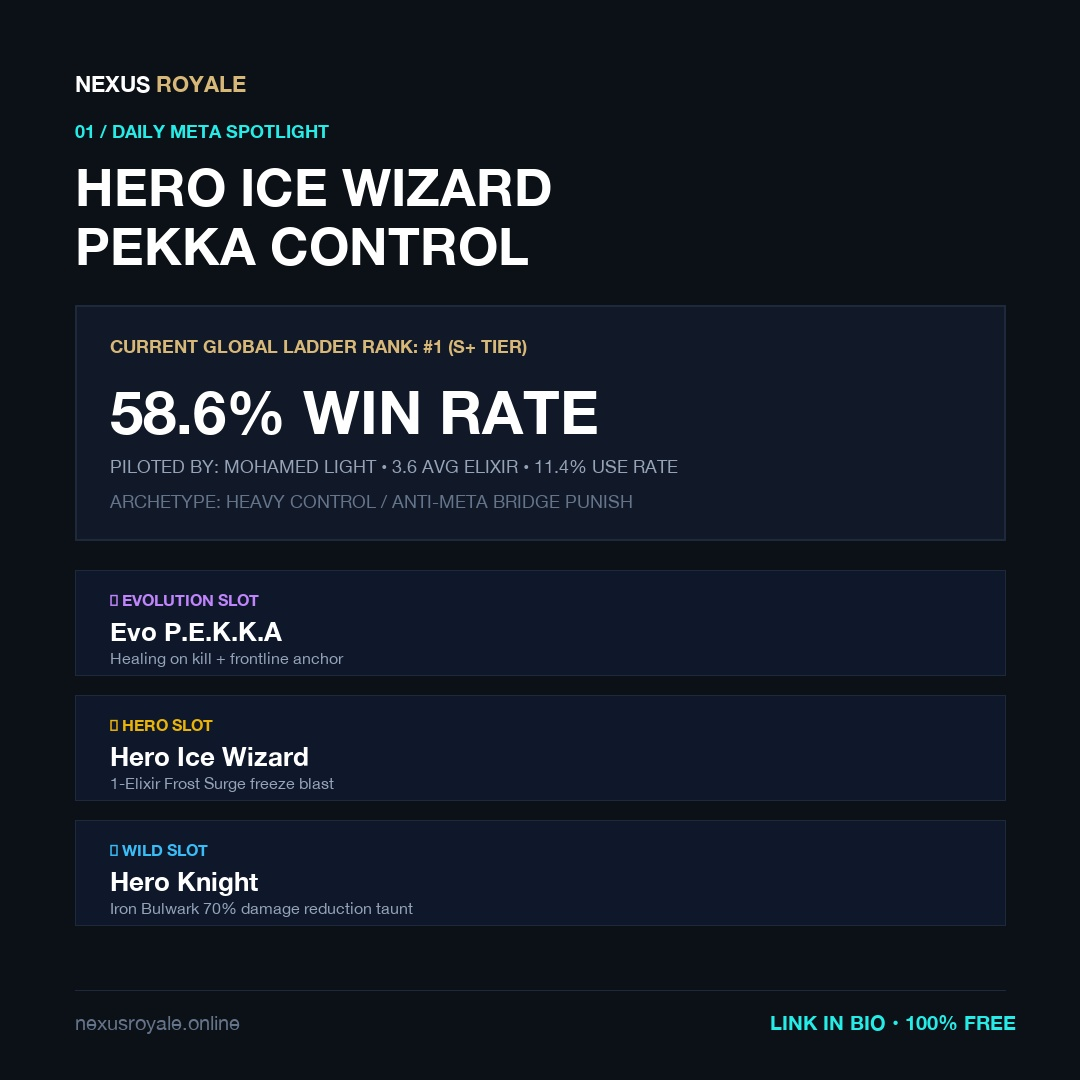
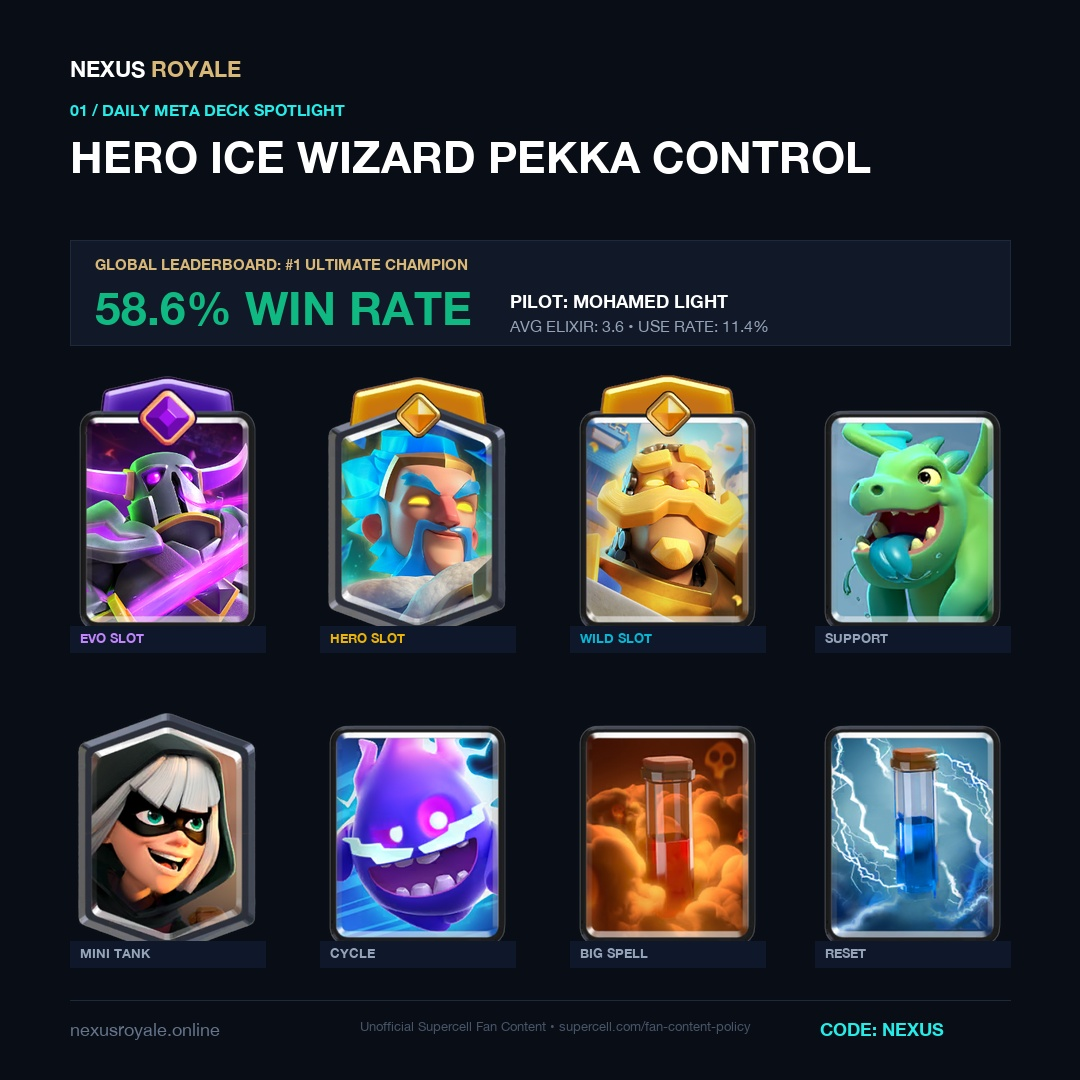
Upgrade social content engine with authentic Clash Royale card portraits and RoyaleAPI design standard

diff --git a/scripts/content_engine.py b/scripts/content_engine.py
@@ -1,18 +1,14 @@
 #!/usr/bin/env python3
 """
 Nexus Royale — Automated Social Media Content Engine
-Generates daily minimalist social media posts from Nexus Royale's proprietary datasets:
-1. Daily Meta Deck Spotlight (WR, Archetype, Pro Pilot, In-game export link)
-2. Balance Shift Intelligence (Supercell emergency patches & nerfs/buffs)
-3. Counter This Card Tactical Guide (Positive elixir trades)
-4. 2v2 Competitive Radar (Top partner synergies)
+Generates daily minimalist, esports-grade social media posts featuring official Clash Royale
+card portraits, 2026 slot badges (Evo/Hero/Wild), and Supercell Fan Content policy compliance.
 
-Outputs 1080x1080 Swiss minimalist graphics and drafts captions for Socials/queue/
+Outputs 1080x1080 graphics and drafts captions for Socials/queue/
 """
 
 import json
 import os
-import re
 import sys
 from datetime import datetime, timezone
 from PIL import Image, ImageDraw, ImageFont
@@ -21,8 +17,10 @@ BASE_DIR = os.path.abspath(os.path.join(os.path.dirname(__file__), ".."))
 SOCIALS_DIR = os.path.abspath(os.path.join(BASE_DIR, "..", "Socials"))
 QUEUE_DIR = os.path.join(SOCIALS_DIR, "queue")
 QUEUE_FILE = os.path.join(SOCIALS_DIR, "content_queue.json")
+CARDS_DIR = os.path.join(SOCIALS_DIR, "assets", "cards")
 
 os.makedirs(QUEUE_DIR, exist_ok=True)
+os.makedirs(CARDS_DIR, exist_ok=True)
 
 FONT_PATH = "/System/Library/Fonts/HelveticaNeue.ttc"
 
@@ -33,64 +31,89 @@ def get_font(size, bold=False):
     except Exception:
         return ImageFont.load_default()
 
-def load_official_news():
-    news_file = os.path.join(BASE_DIR, "official_news.json")
-    if os.path.exists(news_file):
-        with open(news_file, "r") as f:
-            return json.load(f)
-    return {}
-
 def create_base_canvas():
-    return Image.new("RGB", (1080, 1080), color="#0c1017")
+    return Image.new("RGB", (1080, 1080), color="#090d16")
 
 def draw_standard_header(draw, category, headline):
     # Top Brand Mark
-    draw.text((75, 70), "NEXUS ", font=get_font(22, bold=True), fill="#ffffff")
-    bbox = draw.textbbox((75, 70), "NEXUS ", font=get_font(22, bold=True))
-    draw.text((bbox[2], 70), "ROYALE", font=get_font(22, bold=True), fill="#d8b878")
+    draw.text((70, 55), "NEXUS ", font=get_font(22, bold=True), fill="#ffffff")
+    bbox = draw.textbbox((70, 55), "NEXUS ", font=get_font(22, bold=True))
+    draw.text((bbox[2], 55), "ROYALE", font=get_font(22, bold=True), fill="#d8b878")
     
-    # Category Tag
-    draw.text((75, 120), category.upper(), font=get_font(18, bold=True), fill="#26ece8")
+    # Category Kicker
+    draw.text((70, 100), category.upper(), font=get_font(16, bold=True), fill="#26ece8")
     
     # Headline
-    draw.text((75, 155), headline.upper(), font=get_font(52, bold=True), fill="#ffffff", spacing=8)
+    draw.text((70, 130), headline.upper(), font=get_font(44, bold=True), fill="#ffffff", spacing=6)
 
 def draw_standard_footer(draw):
-    # Bottom Bar
-    draw.line([(75, 990), (1005, 990)], fill="#1e293b", width=1)
-    draw.text((75, 1010), "nexusroyale.online", font=get_font(20, bold=False), fill="#64748b")
-    draw.text((770, 1010), "LINK IN BIO • 100% FREE", font=get_font(20, bold=True), fill="#26ece8")
+    draw.line([(70, 1000), (1010, 1000)], fill="#1e293b", width=1)
+    draw.text((70, 1018), "nexusroyale.online", font=get_font(18, bold=False), fill="#64748b")
+    draw.text((360, 1018), "Unofficial Supercell Fan Content • supercell.com/fan-content-policy", font=get_font(13, bold=False), fill="#475569")
+    draw.text((820, 1018), "CODE: NEXUS", font=get_font(18, bold=True), fill="#26ece8")
+
+def paste_card(canvas, card_filename, pos, size=(175, 257)):
+    fp = os.path.join(CARDS_DIR, card_filename)
+    if os.path.exists(fp):
+        try:
+            c = Image.open(fp).convert("RGBA")
+            c = c.resize(size, Image.Resampling.LANCZOS)
+            canvas.paste(c, pos, c)
+            return True
+        except Exception as e:
+            print(f"Error pasting {card_filename}: {e}")
+    return False
 
 # -------------------------------------------------------------
-# 1. Meta Deck Spotlight Post
+# 1. Meta Deck Spotlight Post (8-Card Grid)
 # -------------------------------------------------------------
 def generate_meta_spotlight():
     img = create_base_canvas()
     draw = ImageDraw.Draw(img)
-    draw_standard_header(draw, "01 / DAILY META SPOTLIGHT", "HERO ICE WIZARD\nPEKKA CONTROL")
+    draw_standard_header(draw, "01 / DAILY META DECK SPOTLIGHT", "HERO ICE WIZARD PEKKA CONTROL")
 
-    # Main Card Container
-    draw.rectangle([75, 305, 1005, 540], fill="#111827", outline="#1e293b", width=2)
+    # Stat Banner
+    draw.rectangle([70, 240, 1010, 345], fill="#111827", outline="#1e293b", width=1)
+    draw.text((95, 255), "GLOBAL LEADERBOARD: #1 ULTIMATE CHAMPION", font=get_font(15, bold=True), fill="#d8b878")
     
-    draw.text((110, 335), "CURRENT GLOBAL LADDER RANK: #1 (S+ TIER)", font=get_font(18, bold=True), fill="#d8b878")
-    draw.text((110, 375), "58.6% WIN RATE", font=get_font(60, bold=True), fill="#ffffff")
-    draw.text((110, 455), "PILOTED BY: MOHAMED LIGHT • 3.6 AVG ELIXIR • 11.4% USE RATE", font=get_font(18, bold=False), fill="#94a3b8")
-    draw.text((110, 490), "ARCHETYPE: HEAVY CONTROL / ANTI-META BRIDGE PUNISH", font=get_font(18, bold=False), fill="#64748b")
+    draw.text((95, 280), "58.6% WIN RATE", font=get_font(46, bold=True), fill="#10b981")
+    draw.text((510, 290), "PILOT: MOHAMED LIGHT", font=get_font(18, bold=True), fill="#ffffff")
+    draw.text((510, 316), "AVG ELIXIR: 3.6 • USE RATE: 11.4%", font=get_font(16, bold=False), fill="#94a3b8")
 
-    # 3-Slot Breakdown
-    slots = [
-        ("🟣 EVOLUTION SLOT", "Evo P.E.K.K.A", "Healing on kill + frontline anchor", "#c084fc"),
-        ("🟡 HERO SLOT", "Hero Ice Wizard", "1-Elixir Frost Surge freeze blast", "#eab308"),
-        ("🔵 WILD SLOT", "Hero Knight", "Iron Bulwark 70% damage reduction taunt", "#38bdf8")
+    # 8-Card Grid
+    row1 = [
+        ("pekka_evo.png", "EVO SLOT", "#c084fc"),
+        ("ice-wizard_hero.png", "HERO SLOT", "#eab308"),
+        ("knight_hero.png", "WILD SLOT", "#06b6d4"),
+        ("baby-dragon.png", "SUPPORT", "#94a3b8")
     ]
     
-    y = 570
-    for tag, name, desc, col in slots:
-        draw.rectangle([75, y, 1005, y + 105], fill="#0f172a", outline="#1e293b", width=1)
-        draw.text((110, y + 20), tag, font=get_font(16, bold=True), fill=col)
-        draw.text((110, y + 45), name, font=get_font(26, bold=True), fill="#ffffff")
-        draw.text((110, y + 78), desc, font=get_font(16, bold=False), fill="#94a3b8")
-        y += 125
+    row2 = [
+        ("bandit.png", "MINI TANK", "#94a3b8"),
+        ("electro-spirit.png", "CYCLE", "#94a3b8"),
+        ("poison.png", "BIG SPELL", "#94a3b8"),
+        ("zap.png", "RESET", "#94a3b8")
+    ]
+
+    card_w, card_h = 195, 287
+    xs = [70, 320, 570, 815]
+    
+    # Row 1
+    y1 = 365
+    for i, (fn, tag, col) in enumerate(row1):
+        x = xs[i]
+        paste_card(img, fn, (x, y1), size=(card_w, card_h))
+        # Draw slot badge above card
+        draw.rectangle([x, y1 + card_h - 26, x + card_w, y1 + card_h], fill="#0f172a")
+        draw.text((x + 10, y1 + card_h - 22), tag, font=get_font(13, bold=True), fill=col)
+
+    # Row 2
+    y2 = 680
+    for i, (fn, tag, col) in enumerate(row2):
+        x = xs[i]
+        paste_card(img, fn, (x, y2), size=(card_w, card_h))
+        draw.rectangle([x, y2 + card_h - 26, x + card_w, y2 + card_h], fill="#0f172a")
+        draw.text((x + 10, y2 + card_h - 22), tag, font=get_font(13, bold=True), fill=col)
 
     draw_standard_footer(draw)
     
@@ -119,27 +142,37 @@ def generate_meta_spotlight():
     }
 
 # -------------------------------------------------------------
-# 2. Balance Shifts Post
+# 2. Balance Shifts Post (Real Card Portraits + Delta Badges)
 # -------------------------------------------------------------
 def generate_balance_shifts():
     img = create_base_canvas()
     draw = ImageDraw.Draw(img)
-    draw_standard_header(draw, "02 / LIVE BALANCE INTELLIGENCE", "EMERGENCY BALANCE\nSEPTEMBER 16TH")
+    draw_standard_header(draw, "02 / LIVE BALANCE INTELLIGENCE", "EMERGENCY BALANCE TELEMETRY")
 
     shifts = [
-        ("🔻 HERO ICE WIZARD", "NERF: Freeze Duration 7s ➔ 5s (-29%)", "Frost Surge no longer shuts down entire 7-elixir pushes single-handedly.", "#f43f5e"),
-        ("🔻 MINION GIANT", "NERF: Base Damage 189 ➔ 168 (-11%)", "Reduces tower DPS while keeping frontline tank integrity.", "#f43f5e"),
-        ("🔻 GOBLINSTEIN", "NERF: Ability Duration 4s ➔ 3.5s (-13%)", "Slightly tones down lightning tether lock time.", "#f43f5e"),
-        ("🔺 FIRE SPIRIT", "BUFF: Damage 207 ➔ 215 (+4%)", "Guarantees full wipe on evolved goblin swarms.", "#10b981")
+        ("ice-wizard_hero.png", "HERO ICE WIZARD", "NERF", "-29%", "Freeze Duration: 7.0s ➔ 5.0s", "Frost Surge no longer halts entire 7-elixir pushes single-handedly.", "#ef4444"),
+        ("giant.png", "MINION GIANT", "NERF", "-11%", "Tower DPS: 189 ➔ 168 damage", "Reduces tower melt speed while preserving frontline tank HP.", "#ef4444"),
+        ("goblinstein.png", "GOBLINSTEIN", "NERF", "-13%", "Tether Duration: 4.0s ➔ 3.5s", "Tones down lightning chain lock duration on defense.", "#ef4444"),
+        ("fire-spirit.png", "FIRE SPIRIT", "BUFF", "+4%", "Splash Damage: 207 ➔ 215", "Guarantees complete one-shot wipe on evolved goblin swarms.", "#10b981")
     ]
 
-    y = 310
-    for card, change, note, col in shifts:
-        draw.rectangle([75, y, 1005, y + 140], fill="#111827", outline="#1e293b", width=1)
-        draw.text((110, y + 22), card, font=get_font(24, bold=True), fill=col)
-        draw.text((110, y + 58), change, font=get_font(20, bold=True), fill="#ffffff")
-        draw.text((110, y + 95), note, font=get_font(17, bold=False), fill="#94a3b8")
-        y += 160
+    y = 250
+    cw, ch = 95, 140
+    for fn, name, btype, pct, stat, note, col in shifts:
+        draw.rectangle([70, y, 1010, y + 160], fill="#111827", outline="#1e293b", width=1)
+        paste_card(img, fn, (90, y + 10), size=(cw, ch))
+        
+        # Name and Delta Pill
+        draw.text((210, y + 20), name, font=get_font(22, bold=True), fill="#ffffff")
+        pill_text = f"{btype}: {pct}"
+        pbbox = draw.textbbox((760, y + 20), pill_text, font=get_font(16, bold=True))
+        draw.rectangle([pbbox[0]-12, y+16, pbbox[2]+12, y+44], fill=col)
+        draw.text((760, y + 20), pill_text, font=get_font(16, bold=True), fill="#ffffff")
+        
+        # Stat breakdown & note
+        draw.text((210, y + 62), stat, font=get_font(18, bold=True), fill="#e2e8f0")
+        draw.text((210, y + 100), note, font=get_font(15, bold=False), fill="#94a3b8")
+        y += 182
 
     draw_standard_footer(draw)
     
@@ -167,26 +200,46 @@ def generate_balance_shifts():
     }
 
 # -------------------------------------------------------------
-# 3. Counter This Card Post
+# 3. Counter This Card Post (Target vs Counters)
 # -------------------------------------------------------------
 def generate_counter_guide():
     img = create_base_canvas()
     draw = ImageDraw.Draw(img)
-    draw_standard_header(draw, "03 / TACTICAL COUNTER-PLAY", "HOW TO COUNTER\nHERO ICE WIZARD")
+    draw_standard_header(draw, "03 / TACTICAL COUNTER-PLAY", "HOW TO COUNTER HERO ICE WIZARD")
 
+    # Left Box: Target Threat
+    draw.rectangle([70, 240, 380, 970], fill="#111827", outline="#1e293b", width=1)
+    draw.rectangle([70, 240, 380, 280], fill="#ef4444")
+    draw.text((105, 252), "TARGET THREAT: S-TIER", font=get_font(15, bold=True), fill="#ffffff")
+    
+    paste_card(img, "ice-wizard_hero.png", (105, 305), size=(240, 353))
+    
+    draw.text((95, 680), "HERO ICE WIZARD", font=get_font(22, bold=True), fill="#ffffff")
+    draw.text((95, 715), "Cost: 3⚡ + 1⚡ Ability", font=get_font(16, bold=False), fill="#d8b878")
+    draw.text((95, 750), "Frost Surge 5s freeze stops\nall incoming tank momentum.\nRequires precise positive\nelixir trades.", font=get_font(15, bold=False), fill="#94a3b8", spacing=6)
+
+    # Right Box: 3 Verified Counters
     counters = [
-        ("01", "POISON SPELL (+0 TRADE)", "Drop Poison as soon as Hero Ice Wizard locks. The continuous DPS denies both his standard attack and limits Frost Surge value."),
-        ("02", "SURROUND PLACEMENT (+1 TO +2 TRADE)", "Never group troops in a single lane. Deploy Guards or Goblin Gang in a split surround to force Frost Surge on single targets."),
-        ("03", "BOSS BANDIT DASH (+0 TRADE)", "Boss Bandit's invulnerable dash frames completely ignore the Frost Surge freeze zone and assassinate him cleanly.")
+        ("poison.png", "POISON SPELL", "+0 ELIXIR TRADE", "Drop Poison instantly on deployment. Consistent area DPS denies Frost Surge value and clips support units.", "#06b6d4"),
+        ("guards.png", "SPLIT GUARDS", "+1 ELIXIR TRADE", "Deploy Guards centered split-lane. Shields absorb freeze blast; dual lanes avoid cluster wipe.", "#10b981"),
+        ("bandit.png", "BOSS BANDIT DASH", "+0 ELIXIR TRADE", "Bandit's invulnerable dash frames ignore the Frost Surge freeze zone entirely and assassinate him.", "#06b6d4")
     ]
 
-    y = 310
-    for num, title, desc in counters:
-        draw.rectangle([75, y, 1005, y + 195], fill="#111827", outline="#1e293b", width=1)
-        draw.text((110, y + 25), f"{num} / {title}", font=get_font(22, bold=True), fill="#26ece8")
-        # Word wrap desc
-        draw.text((110, y + 70), desc, font=get_font(18, bold=False), fill="#cbd5e1", spacing=8)
-        y += 220
+    y = 240
+    for fn, name, trade, desc, col in counters:
+        draw.rectangle([410, y, 1010, y + 230], fill="#111827", outline="#1e293b", width=1)
+        paste_card(img, fn, (430, y + 20), size=(130, 191))
+        
+        draw.text((580, y + 25), name, font=get_font(22, bold=True), fill="#ffffff")
+        
+        # Trade Pill
+        tbbox = draw.textbbox((580, y + 62), trade, font=get_font(15, bold=True))
+        draw.rectangle([tbbox[0]-8, y+58, tbbox[2]+8, y+86], fill=col)
+        draw.text((580, y + 62), trade, font=get_font(15, bold=True), fill="#0f172a" if col == "#10b981" else "#ffffff")
+        
+        # Desc
+        draw.text((580, y + 105), desc, font=get_font(15, bold=False), fill="#94a3b8", spacing=6)
+        y += 250
 
     draw_standard_footer(draw)
     
@@ -213,30 +266,36 @@ def generate_counter_guide():
     }
 
 # -------------------------------------------------------------
-# 4. 2v2 Competitive Radar Post
+# 4. 2v2 Competitive Radar (Duo Decks & Synergies)
 # -------------------------------------------------------------
 def generate_2v2_radar():
     img = create_base_canvas()
     draw = ImageDraw.Draw(img)
-    draw_standard_header(draw, "04 / 2V2 LEAGUE RADAR", "TOP 10K SYNERGY\nDUAL DECK COMBO")
+    draw_standard_header(draw, "04 / 2V2 COMPETITIVE LEAGUE", "TOP 10K SYNERGY: PEKKA + GRAVEYARD")
 
-    draw.rectangle([75, 305, 1005, 520], fill="#111827", outline="#1e293b", width=2)
-    draw.text((110, 335), "GLOBAL 2V2 COMPETITIVE LEAGUE (SEASON 87)", font=get_font(18, bold=True), fill="#d8b878")
-    draw.text((110, 375), "PEKKA + GRAVEYARD POISON", font=get_font(42, bold=True), fill="#ffffff")
-    draw.text((110, 440), "62.4% DUO WIN RATE • PILOTED IN TOP 500 GLOBAL 2V2", font=get_font(18, bold=False), fill="#26ece8")
-    draw.text((110, 475), "Combined Avg Elixir: 3.55⚡ • Anti-Swarm & Ground Tank Anchor", font=get_font(18, bold=False), fill="#94a3b8")
+    draw.rectangle([70, 240, 1010, 340], fill="#111827", outline="#1e293b", width=1)
+    draw.text((95, 255), "GLOBAL 2V2 LEAGUE • TOP 500 SYNERGY SCORE", font=get_font(15, bold=True), fill="#d8b878")
+    draw.text((95, 280), "62.4% DUO WIN RATE", font=get_font(44, bold=True), fill="#10b981")
+    draw.text((580, 290), "DUO COMBO: TANK ANCHOR + SPELL PRESSURE", font=get_font(16, bold=False), fill="#94a3b8")
 
-    decks = [
-        ("PLAYER 1 / TANK & EVOLUTION ANCHOR", "Evo PEKKA, Hero Knight, Zap, Executioner, Minion Horde, Freeze, Guards, Hog Rider"),
-        ("PLAYER 2 / SPELL PRESSURE & CONTROL", "Graveyard, Poison, Baby Dragon, Tornado, Ice Wizard, Tombstone, Barbarian Barrel, Mega Minion")
-    ]
+    # Player 1 Deck Panel
+    draw.rectangle([70, 360, 1010, 640], fill="#0f172a", outline="#1e293b", width=1)
+    draw.text((95, 380), "PLAYER 1 / TANK & EVOLUTION ANCHOR", font=get_font(18, bold=True), fill="#c084fc")
+    draw.text((750, 380), "AVG ELIXIR: 3.8", font=get_font(16, bold=False), fill="#94a3b8")
     
-    y = 550
-    for role, cards in decks:
-        draw.rectangle([75, y, 1005, y + 175], fill="#0f172a", outline="#1e293b", width=1)
-        draw.text((110, y + 25), role, font=get_font(18, bold=True), fill="#d8b878")
-        draw.text((110, y + 65), cards, font=get_font(18, bold=False), fill="#cbd5e1", spacing=6)
-        y += 205
+    p1_cards = ["pekka_evo.png", "executioner.png", "knight_hero.png", "zap.png"]
+    p1_xs = [95, 325, 555, 785]
+    for i, fn in enumerate(p1_cards):
+        paste_card(img, fn, (p1_xs[i], 420), size=(135, 198))
+
+    # Player 2 Deck Panel
+    draw.rectangle([70, 660, 1010, 940], fill="#0f172a", outline="#1e293b", width=1)
+    draw.text((95, 680), "PLAYER 2 / SPELL PRESSURE & CONTROL", font=get_font(18, bold=True), fill="#26ece8")
+    draw.text((750, 680), "AVG ELIXIR: 3.3", font=get_font(16, bold=False), fill="#94a3b8")
+    
+    p2_cards = ["graveyard.png", "tornado.png", "baby-dragon.png", "poison.png"]
+    for i, fn in enumerate(p2_cards):
+        paste_card(img, fn, (p1_xs[i], 720), size=(135, 198))
 
     draw_standard_footer(draw)
     
